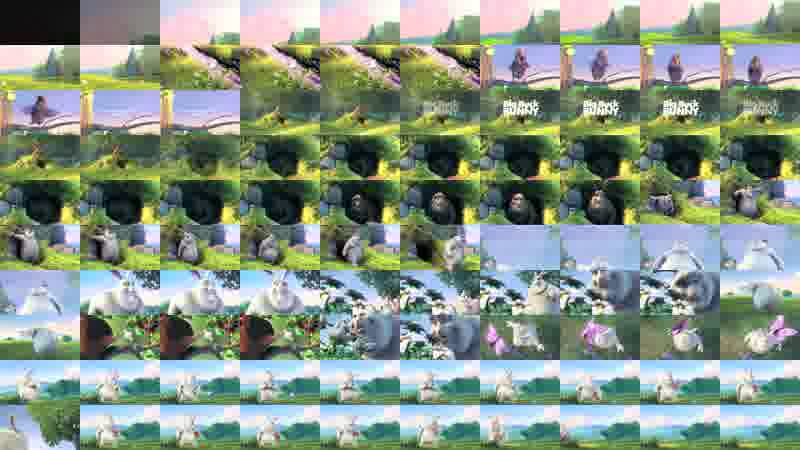
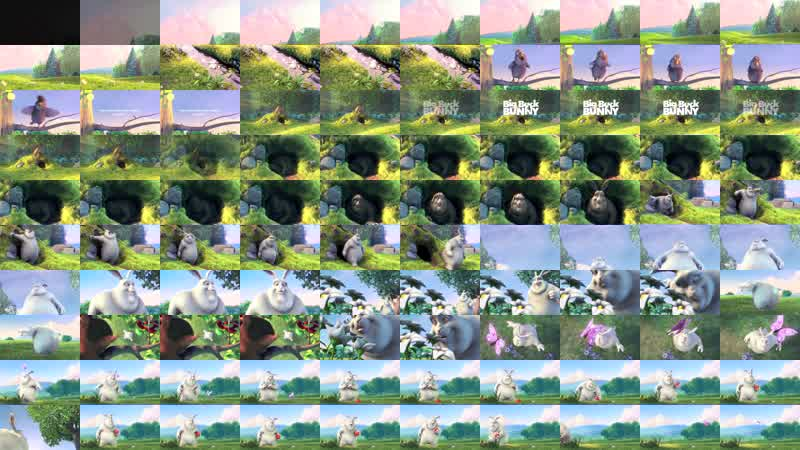
fixed thumbnails generator script

diff --git a/src/canvas.ts b/src/canvas.ts
@@ -42,12 +42,13 @@ const draw = (canvas: HTMLCanvasElement, x: number, y: number) => {
 };
 
 export const updateCanvas = (seconds: number) => {
-    const { x, y } = getCoords(seconds);
+    const { x, y } = getCoords(seconds + BUFFER_FRAMES);
     if (seconds === 1) {
+        const { x: xS, y: yS } = getCoords(seconds);
         const firstCanvas = document.createElement('canvas');
         setCanvasAttrs(firstCanvas);
         immersiveEl.appendChild(firstCanvas);
-        draw(firstCanvas, x, y);
+        draw(firstCanvas, xS, yS);
     }
 
     if (seconds % BUFFER_FRAMES === 0) {

diff --git a/scripts/extract-thumbnails.js b/scripts/extract-thumbnails.js
@@ -45,7 +45,7 @@ const extractThumbnails = async (inputPath, outputPath, filename) => {
         // scale=80:-1: resolution of 80p
         // tile=10x10: 100 screenshots per jpg file
         // -q:v 69: quality set to 69. 0=best, 69=worst?
-        .outputOptions('-q:v', '69', '-vf', 'fps=1,scale=80:-1,tile=10x10')
+        .outputOptions('-q:v', '10', '-vf', 'fps=1,scale=80:-1,tile=10x10')
         .run();
 };
 

diff --git a/src/style.css b/src/style.css
@@ -44,7 +44,7 @@ h1 {
     inset: 45%;
     transform: scale(11, 11.5);
     filter: blur(4px);
-    opacity: 0.2;
+    opacity: 0.3;
 }
 
 canvas {
